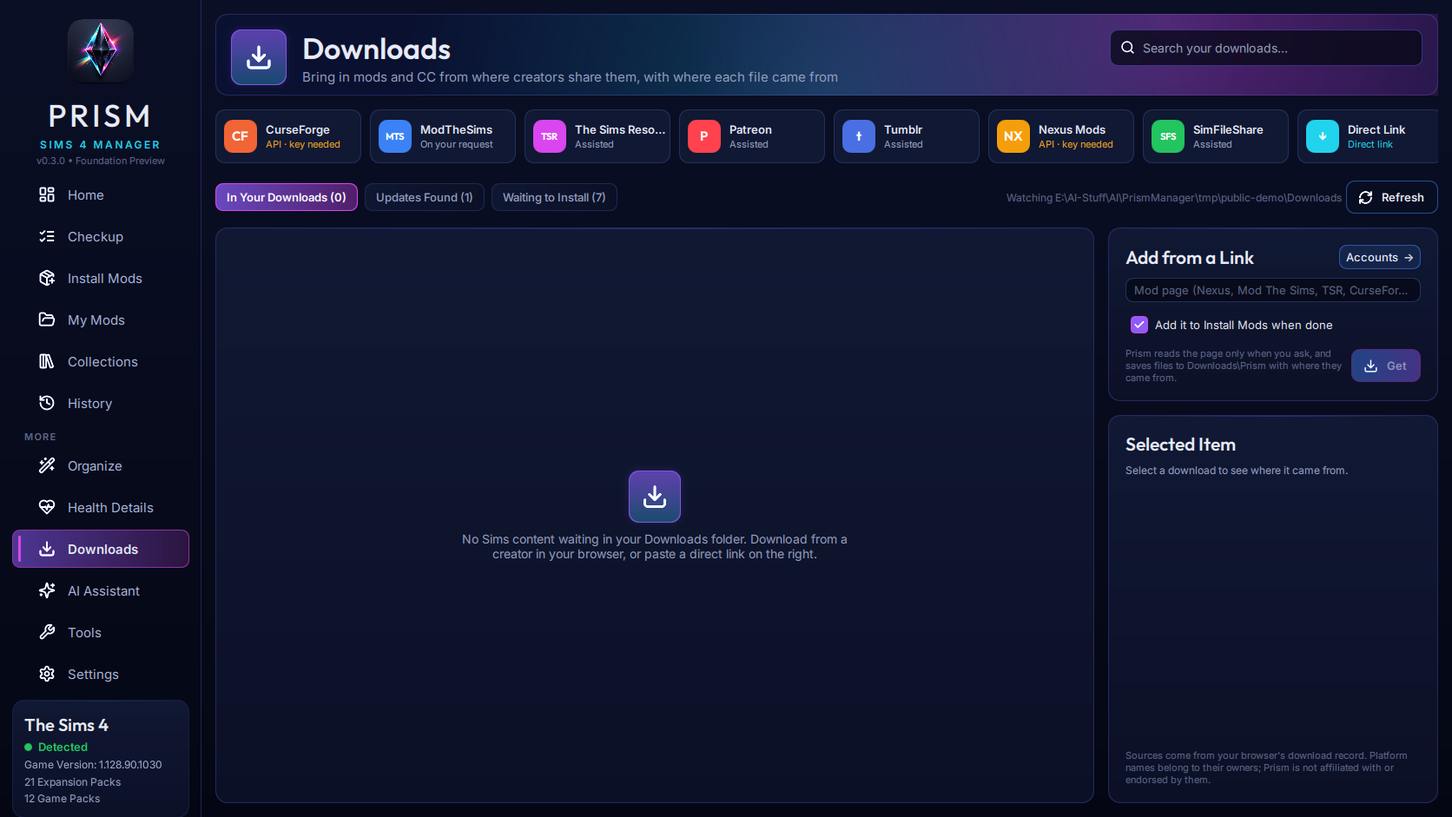
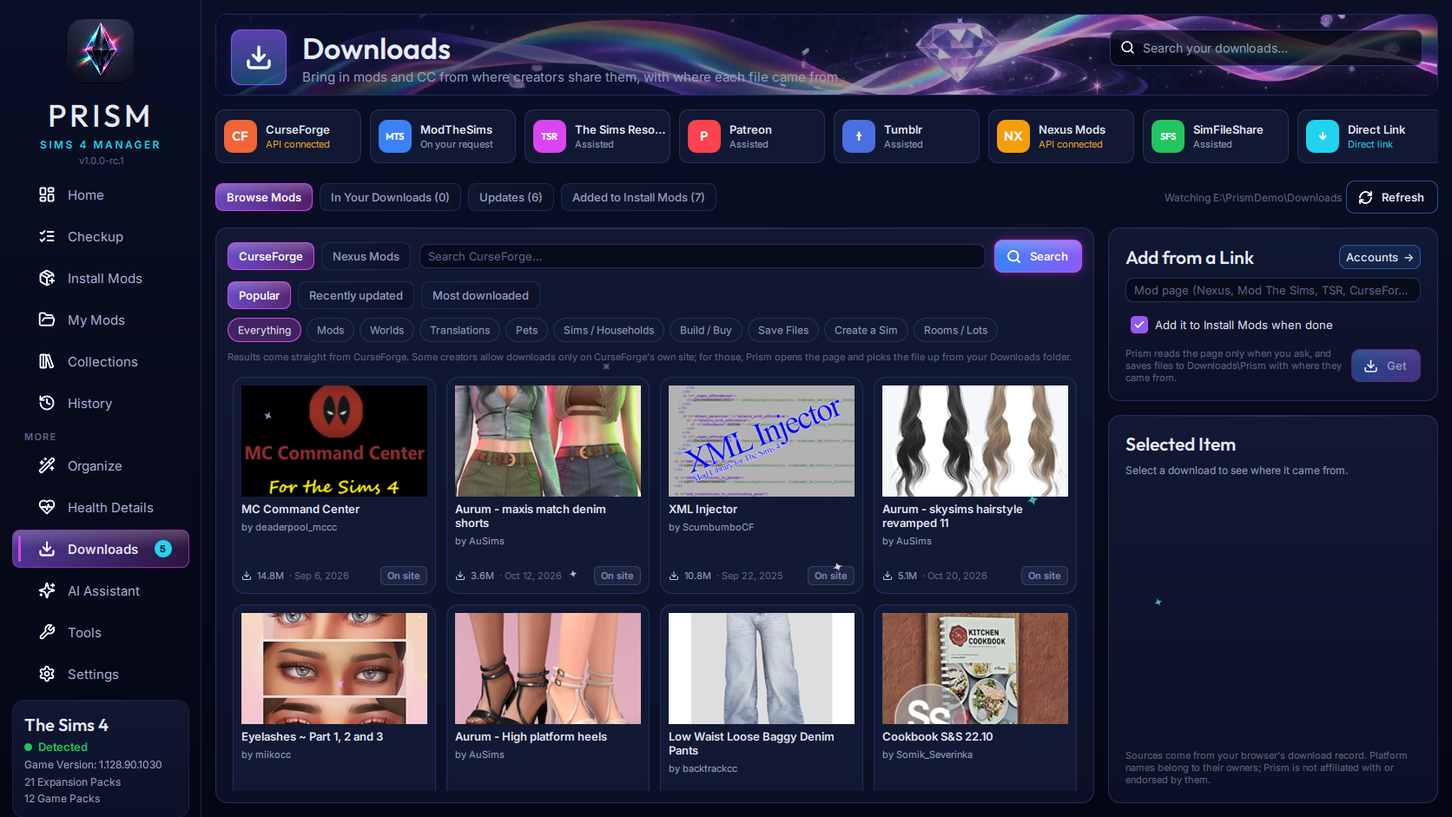
Docs: 1.0 release candidate - browse and update from CurseForge and Nexus Mods, malware checks, themes, agent approval; fresh screenshots
Screenshots retaken from a demo collection in a neutral folder (the old Downloads shot showed a local path).

diff --git a/docs/index.html b/docs/index.html
@@ -4,7 +4,7 @@
 <meta charset="utf-8">
 <meta name="viewport" content="width=device-width, initial-scale=1">
 <title>Prism · Sims 4 Manager</title>
-<meta name="description" content="Prism is a free, open-source mod and custom-content manager for The Sims 4: safe installs with undo, evidence from inside your packages, collections, loadouts and an optional read-only AI assistant.">
+<meta name="description" content="Prism is a free, open-source mod and custom-content manager for The Sims 4: browse and update mods from CurseForge and Nexus Mods, malware checks, safe installs with undo, whole-folder organizing, themes and an optional AI assistant.">
 <meta property="og:title" content="Prism · Sims 4 Manager">
 <meta property="og:description" content="A free, open-source Sims 4 mod manager: visual, careful, and honest about what it knows.">
 <meta property="og:image" content="https://archangelaries.github.io/Prism-Sims4-Manager/screenshots/dashboard.png">
@@ -149,7 +149,7 @@
       <a class="btn primary" href="#screens">See it in action</a>
       <a class="btn" href="https://github.com/ArchAngelAries/Prism-Sims4-Manager">Follow on GitHub</a>
     </div>
-    <div class="status"><i></i>In active development · source code arrives with the first public release</div>
+    <div class="status"><i></i>1.0 release candidate · Windows installer in testing · source code arrives with the first public release</div>
     <div class="shot-hero"><img src="screenshots/dashboard.png" alt="Prism dashboard: collection overview, health, recent activity and loadout"></div>
   </div>
 </header>
@@ -178,6 +178,10 @@
       <p>Tested every day on a real collection of more than 43,000 files.</p>
     </div>
     <div class="features">
+      <div class="feature"><div class="ico"><span style="--m:url(assets/icons/search.svg);--c:var(--cyan)"></span></div><h3>Browse &amp; download</h3><p>Search CurseForge and Nexus Mods inside Prism, pick a file, and it lands in Install Mods for review. When a creator allows downloads only on their page, Prism opens it and picks the file up for you.</p></div>
+      <div class="feature"><div class="ico"><span style="--m:url(assets/icons/refresh-cw.svg);--c:var(--green)"></span></div><h3>Updates in one place</h3><p>Prism recognises your CurseForge mods from the files themselves, even old installs, and lists every update: <b>In Prism</b> (one click) or <b>On site</b>, with the game version each new file lists.</p></div>
+      <div class="feature"><div class="ico"><span style="--m:url(assets/icons/shield-check.svg);--c:var(--green)"></span></div><h3>Malware checks</h3><p>Disguised files, hidden programs, scripts that reach for passwords, known-bad files and a Windows Defender scan, plus confirmation from CurseForge or Nexus. Prism never runs a file to check it.</p></div>
+      <div class="feature"><div class="ico"><span style="--m:url(assets/icons/palette.svg);--c:var(--magenta)"></span></div><h3>27 themes, and yours</h3><p>Crystal, Neon, Gothic Vampire, Anime Sky, Cottagecore, Cartoon, Pride flags and more, each with its own animated banner. Make your own, use your installed fonts, and share themes safely.</p></div>
       <div class="feature"><div class="ico"><span style="--m:url(assets/icons/list-checks.svg);--c:var(--green)"></span></div><h3>Checkup</h3><p>One screen, plain language: what's wrong with your collection, most important first, each with one fix button. Every fix can be undone.</p></div>
       <div class="feature"><div class="ico"><span style="--m:url(assets/icons/shield-check.svg);--c:var(--amber)"></span></div><h3>Set Aside</h3><p>Take problem files out of the game without deleting them, keep the reason, and put them back any time. Only you can delete, and deleted files go to the Recycle Bin.</p></div>
       <div class="feature"><div class="ico"><span style="--m:url(assets/icons/box.svg)"></span></div><h3>Evidence over filenames</h3><p>Prism reads what's inside each package (resource types, CAS body types, embedded previews, script versions), so a "hair" file that's really a hat is filed as a hat.</p></div>
@@ -215,13 +219,13 @@
     <div class="panel">
       <div class="ico"><span style="--m:url(assets/icons/download.svg)"></span></div>
       <h3>Know where every mod came from</h3>
-      <p>Prism records the site and page behind each download, carries it into the installed mod, and checks those sources for newer files where the site allows it. It follows each site's rules: no bypassing logins, captchas, paywalls or early access.</p>
+      <p>Prism records the site and page behind each download, recognises installed CurseForge mods from their files, and checks for newer versions. It follows each site's rules and each creator's download choices: no bypassing logins, captchas, paywalls or early access.</p>
       <div class="chips">
-        <span class="chip api">Nexus Mods · official API</span>
+        <span class="chip api">CurseForge · official API: browse, download, updates</span>
+        <span class="chip api">Nexus Mods · official API, "Mod Manager Download"</span>
         <span class="chip req">Mod The Sims · on request</span>
         <span class="chip ast">The Sims Resource · in your browser</span>
         <span class="chip ast">Patreon, Tumblr &amp; more · in your browser</span>
-        <span class="chip wait">CurseForge · awaiting API approval</span>
       </div>
     </div>
     <div class="panel">
@@ -230,7 +234,7 @@
       <p>AI is optional. The assistant answers questions about your real collection; agents and stronger models can draft Mod Doctor fixes.</p>
       <ul>
         <li>Local models (LM Studio, Ollama, llama.cpp, vLLM), your own cloud keys, or agents like Claude Code and Codex.</li>
-        <li>The assistant is read-only. Agents can change files only after you turn on reviewed agent changes and approve the exact plan.</li>
+        <li>The assistant is read-only. Agents can change files only after you allow it, and you choose who approves each change: ask me every time, approve for me (Prism's own AI checks routine changes), or always approve. Risky changes always ask you.</li>
         <li>Kept honest: answers come from your real collection, Prism's built-in guide and a final check, so even small local models don't invent features or claim to have changed files.</li>
         <li>Honest about limits: fixes from small local models are often wrong. Prism rejects what it can detect and recommends stronger models for code.</li>
       </ul>
@@ -243,29 +247,27 @@
     <div class="head">
       <div class="eyebrow">Development status</div>
       <h2>Where Prism is today</h2>
-      <p>Prism runs on Windows (Python with Qt Quick). The code will be published here, under the GPL, with the first public release.</p>
+      <p>Prism runs on Windows (Python with Qt Quick) and installs with a normal Windows installer. The code will be published here, under the GPL, with the first public release.</p>
     </div>
     <div class="road">
       <div class="col"><h3><i class="dot" style="background:var(--green)"></i>Working now</h3><ul>
+        <li>Browse, download and update from CurseForge and Nexus Mods</li>
+        <li>Malware checks on every download, without running anything</li>
         <li>Installs and updates with undo, straight into your layout</li>
         <li>Organize the whole Mods folder, tested on a real 43,000-file collection</li>
-        <li>Sim and lot downloads that keep your CC and sliders intact</li>
-        <li>Checkup with one-click fixes, and Set Aside for problem files</li>
-        <li>Mod Browser, Collections, Loadouts and pictures</li>
+        <li>Checkup, Set Aside and Find the Culprit</li>
         <li>Missing requirements, Mod Doctor and game update impact</li>
-        <li>Opt-in in-game probe: which script mods really loaded</li>
-        <li>Downloads with source tracking; Nexus Mods integration</li>
-        <li>AI assistant (local or cloud) and agent tools for every feature</li></ul></div>
+        <li>27 themes with animated banners, custom and shareable themes</li>
+        <li>AI assistant (local or cloud) and agents with approval you control</li>
+        <li>Windows installer (1.0 release candidate)</li></ul></div>
       <div class="col"><h3><i class="dot" style="background:var(--amber)"></i>In progress</h3><ul>
-        <li>Evidence-driven "find the culprit" troubleshooting</li>
-        <li>Main-menu probe and interface-override checks</li>
-        <li>More layout choices (simple, granular, keep mine)</li>
-        <li>CurseForge integration (pending approval)</li>
-        <li>Speed: faster first checks on huge collections</li></ul></div>
+        <li>In-game testing of the probe</li>
+        <li>Sign in with Nexus Mods (app registration)</li>
+        <li>More theme families and Theme Studio</li></ul></div>
       <div class="col"><h3><i class="dot" style="background:var(--violet)"></i>Next</h3><ul>
-        <li>Windows installer and first public release</li>
+        <li>First public release, with source code</li>
         <li>Previews for CC that ships without one</li>
-        <li>Animated, polished look</li></ul></div>
+        <li>More layout choices</li></ul></div>
     </div>
   </div>
 </section>
@@ -292,15 +294,19 @@
 <script>
   const shots = [
     ['dashboard', 'Home', 'Your collection at a glance, what needs attention, and a Play button.'],
+    ['downloads', 'Browse Mods', 'Search CurseForge and Nexus Mods inside Prism; downloads go to Install Mods for review.'],
+    ['updates', 'Updates', 'Every update in one place: in Prism or on the site, with the game version each file lists.'],
+    ['themes', 'Themes', '27 built-in looks, your own themes, installed fonts, and safe theme sharing.'],
+    ['theme-gothic-vampire', 'Gothic Vampire', 'One of the themes, with its own banner and finishes.'],
+    ['theme-cottagecore', 'Cottagecore', 'A light theme with its own art.'],
     ['staging', 'Install Mods', 'Review releases, versions and replacements before anything moves.'],
     ['browser', 'My Mods', 'Real thumbnails from inside your packages, with categories and folders.'],
     ['collections', 'Collections', 'Group content into collections and switch gameplay loadouts safely.'],
     ['sort', 'Organize', 'Your whole Mods folder in one clean layout, previewed first and undoable.'],
     ['health', 'Health Details', 'Evidence from inside your packages, not guesses from filenames.'],
     ['history', 'Move History', 'Every change Prism made, with verified undo and crash recovery.'],
-    ['downloads', 'Downloads', 'Bring in mods from where creators share them, with where each file came from.'],
     ['assistant', 'AI Assistant', 'Read-only help that looks at your real collection before answering.'],
-    ['tools', 'Tools & Utilities', 'Inspectors, maintenance and the external apps you already use.'],
+    ['tools', 'Tools & Utilities', 'Error logs, Mod Doctor, duplicates, backups and maintenance.'],
     ['checkup', 'Checkup', 'What\'s wrong with your collection, in plain language, with one-click fixes.'],
     ['set-aside', 'Set Aside', 'Problem files out of the game, kept with the reason, ready to put back.'],
     ['mod-doctor', 'Mod Doctor', 'A broken script mod, explained in plain language, with a fix you approve once and can undo.'],

diff --git a/README.md b/README.md
@@ -12,63 +12,62 @@
 
 </div>
 
-> **Status: in active development.** This repository currently holds documentation, screenshots and licensing only. The source code will be published here when the first public release is ready.
+> **Status: 1.0 release candidate.** Prism now has a Windows installer and is being tested before its first public release. This repository holds documentation, screenshots and licensing; the source code will be published here with that release.
 
 ## What Prism does
 
-Prism helps you install, browse, organize and troubleshoot large Sims 4 collections (tested on 43,000+ files) without guessing and without risking your Mods folder.
+Prism helps you find, install, update, organize and troubleshoot large Sims 4 collections (tested on 43,000+ files) without guessing and without risking your Mods folder.
 
+- **Browse and download inside Prism.** Search CurseForge (by section: Mods, Create a Sim, Build/Buy and more) and Nexus Mods without leaving the app. Pick a mod, pick a file, and Prism downloads it and adds it to Install Mods for review. Files whose creator allows downloads only on their own page open that page instead, and Prism picks the file up from your Downloads folder.
+- **Updates in one place.** Prism recognises which of your installed mods come from CurseForge, even ones you installed long before Prism, from the files themselves (only fingerprint numbers are sent, never your files or their names). It shows every update with what you have and what's new, which game version the new file is listed for, and how to get it: **In Prism** (one click, or Update All) or **On site** (the creator's page opens). Mods you downloaded from Nexus Mods or Mod The Sims are checked too, when you ask. The sidebar shows how many updates are waiting.
+- **Nexus Mods "Mod Manager Download".** Optionally, Nexus's download buttons can send their files straight to Prism, also for free accounts. Prism shows which program handles those links now and gives them back when you turn this off or uninstall.
+- **Malware protection without running anything.** Every download is checked before it can be installed: files pretending to be something else, programs hidden inside mods, script mods that reach for passwords or browsers, known-bad files, downloads from risky hosts, and a Windows Defender scan of each new batch. Downloads that say they came from CurseForge or Nexus Mods are confirmed with that site. Prism never runs a file to check it, and it is honest that no check can prove a mod is safe.
 - **Checkup.** One screen that tells you what's wrong with your collection in plain language, most important first, each with one fix button. It covers broken files, files too deep in folders for the game to load, script mods that stopped working, missing requirements, CAS items that will be invisible, duplicates, and fixes to confirm after playing. Every fix can be undone.
 - **Set Aside.** Take problem files out of the game without deleting them. Prism keeps the reason, and you can put them back any time. Deleting is your choice alone: files go to the Windows Recycle Bin, and the assistant and agents can never delete anything.
-- **Sim and lot downloads.** Bundled CC and sliders you already have are skipped, even under another file name (Prism matches the item IDs inside). If a bundled slider would replace one of yours, Prism asks: all of them, the ones you tick, or none. Renamed tray copies the game would ignore are left out, and incomplete households or lots are flagged.
-- **Big mods installed right.** Mods with their own layout, like Create-A-World and Better BuildBuy, are installed exactly as their creators require (the whole folder, every file type), and Prism warns about conflicts their creators name.
 - **Safe installs and updates.** Downloads are staged and analyzed first. You review exactly which files move and which versions are replaced, then Prism installs them as one transaction that you can undo, and that recovers safely after a crash or power loss. Prism never overwrites a file.
+- **Sim and lot downloads.** Bundled CC and sliders you already have are skipped, even under another file name (Prism matches the item IDs inside). If a bundled slider would replace one of yours, Prism asks: all of them, the ones you tick, or none. Renamed tray copies the game would ignore are left out, and incomplete households or lots are flagged.
+- **Big mods installed right.** Mods with their own layout, like Create-A-World and Better BuildBuy, are installed exactly as their creators require, and Prism warns about conflicts their creators name.
 - **Evidence over filenames.** Prism reads what is inside each package (resource types, CAS body types, embedded thumbnails and script versions) instead of trusting names. Shared resources are reported as candidates to review, never presumed conflicts.
+- **Organize everything.** Your whole Mods folder in one clean layout (CAS, Build/Buy, Gameplay, Overrides, Animations & Poses), planned in seconds even for 43,000 files and applied as one undoable step. Overrides are found by what a package replaces, not by its name. Mods stay whole, scripts stay where the game loads them, and your settings folders and deliberate choices stay put. New installs land in the layout you chose; a new player's folders are left as they made them.
+- **Build/Buy by catalog.** Build/Buy subfolders (seating, lighting, plumbing, decor...) come from each object's own catalog tags, the same categories the game uses.
+- **My Mods, Collections and loadouts.** A fast visual gallery of everything installed, with embedded previews and per-file details. Group related content, then switch gameplay loadouts in one undoable step. Nothing is deleted when you switch.
+- **Missing requirements, found and fetched.** Script frameworks your mods import (read from compiled code without running it), mods and packs their creators declare as required, and CAS items whose mesh is missing. Each comes with its official source, and Prism gets it for you where the site allows.
+- **Game update impact and Mod Doctor.** After a game update, Prism lists the script mods whose code uses game functions that changed, before you launch. When one breaks, Mod Doctor explains why and gets a small, separate, safety-checked fix written, which you install with one approval and can undo any time. The original mod is never changed.
+- **Find the Culprit.** When something is broken and nobody knows which mod, Prism narrows it down step by step, turning groups of mods off and back on, with every step undoable.
+- **Themes.** 27 built-in themes, from Prism's own crystal look to Neon, Gothic Vampire, Anime Sky, Cottagecore, Storybook, Rose Gold, Cartoon and Pride flags, each with its own animated banner, effects and finishes. Save your own theme, change its colors, corners, glow and effects, use fonts installed on your PC, and share themes as files. Imported themes are checked like downloads: pictures and settings only, nothing that could run.
 - **Pictures.** Give a mod or a collection your own picture, the one from its download page, or an AI-generated one (ComfyUI on your PC, OpenAI or Gemini). Generated pictures are always labelled.
-- **My Mods.** A fast visual gallery of everything installed, with embedded previews, categories, folders, suggested sets, and per-file details.
-- **Collections and loadouts.** Group related content, then switch gameplay loadouts in one undoable step. Nothing is deleted when you switch.
-- **Organize everything.** Your whole Mods folder in one clean layout (CAS, Build/Buy, Gameplay, Overrides, Animations & Poses), planned in seconds even for 43,000 files and applied as one undoable step. Overrides are found by what a package replaces, not by its name. Mods stay whole, scripts stay where the game loads them, and your settings folders and deliberate choices stay put. Old folders, empty ones included, are removed, and new installs land in the same layout.
-- **Collection Health and game error logs.** Find files the game will not load, contested resources, and the installed mods that appear in exception tracebacks.
-- **Missing requirements, found and fetched.** Prism finds what your mods need but don't have:
-  - script frameworks they import, read from compiled code without running it;
-  - mods and packs their creators declare as required;
-  - CAS items whose mesh is missing.
-
-  For each one it names the official source. It downloads through official APIs where a site allows it; otherwise it opens the creator's page and watches your Downloads folder. It checks that the file really provides what was missing, then installs it through the same reviewed, undoable flow.
-- **Game update impact.** Prism records the game's own functions for each game version. After an update, it lists the script mods whose code uses functions that changed or disappeared, before you launch. This is a prediction, not a verdict, and it starts working from the first game update after Prism is installed.
-- **Mod Doctor.** When a game update breaks a script mod, Prism reads the game's error reports and the mod's compiled code (without running it). An AI model or agent writes a small, separate compatibility fix. Prism checks it before you see it: no file, network or process access, no hiding errors, no invented code. One approval installs it into `Mods/Prism Patches`. The original mod is never changed, you can undo the fix any time, and an official update from the creator is still the best fix.
-- **Downloads and sources.** Prism records where each download came from and checks those sources for newer files where the site allows it. It uses Nexus Mods through its official API with your own key, reads public Mod The Sims pages only when you ask, and works with your browser for everything else. CurseForge support is waiting on API approval. Prism never bypasses logins, captchas, paywalls or site rules.
-- **Exact Duplicate Finder.** Byte-identical copies, confirmed with SHA-256. Extra copies go to a vault, never to the recycle bin.
-- **Build/Buy by catalog.** Build/Buy subfolders (seating, lighting, plumbing, decor...) come from each object's own Buy/Build catalog tags, the same categories the game uses. On a 43,000-file test collection, the number of Build/Buy files Prism could place confidently went from about 6,700 to 17,800.
-- **AI Assistant (optional).** Works with local models (LM Studio, Ollama, llama.cpp, vLLM and more) or your own cloud keys (Anthropic, OpenAI, Gemini). It only reads your collection and suggests the right screen for any change. Its answers come from your real collection, Prism's built-in guide and a final check, so even small local models stay accurate about what Prism can do. It cannot install, move or delete anything, and every change stays yours to approve. Settings recommends local models that fit your PC, with results Prism measured on real hardware.
-- **Agents (optional).** Claude Code, Codex and other MCP clients can use every Prism feature through its tools: the Checkup, installs, Organize, Mod Doctor and more. They can only change files after you turn on reviewed agent changes and approve the exact plan. Fixes written by small local models are often wrong: Prism rejects what it can detect and recommends stronger models for code.
+- **AI Assistant (optional).** Works with local models (LM Studio, Ollama, llama.cpp, vLLM and more) or your own cloud keys (Anthropic, OpenAI, Gemini). It only reads your collection and suggests the right screen for any change. Its answers come from your real collection, Prism's built-in guide and a final check, so even small local models stay accurate. Requests to change Prism itself are pointed to this repository's Issues.
+- **Agents (optional).** Claude Code, Codex and other MCP clients can use Prism's features through its tools. Changes are off until you allow them, and you choose who approves each one: **Ask me every time**, **Approve for me** (Prism's own AI approves routine, undoable changes and asks you about anything else) or **Always approve**. Code that would run in the game, whole-folder moves and downloads with safety findings always ask you.
+- **Private by design.** API keys are encrypted for your Windows account and never shown in full. Prism opens programs it finds on your PC only after showing you exactly which file it is. Every build is checked so that no personal data or keys can ship inside it.
 
 ## Screenshots
 
 | | |
 |---|---|
-| ![Organize](docs/screenshots/sort.png) **Organize**: your whole Mods folder in one clean layout, previewed first | ![Install Mods](docs/screenshots/staging.png) **Install Mods**: review releases, versions and replacements before anything moves |
+| ![Browse](docs/screenshots/downloads.png) **Browse Mods**: search CurseForge and Nexus Mods inside Prism | ![Updates](docs/screenshots/updates.png) **Updates**: in Prism or on the site, with the game version each file lists |
+| ![Install Mods](docs/screenshots/staging.png) **Install Mods**: review releases, versions and replacements before anything moves | ![Organize](docs/screenshots/sort.png) **Organize**: your whole Mods folder in one clean layout, previewed first |
 | ![My Mods](docs/screenshots/browser.png) **My Mods**: embedded previews and content categories | ![Home](docs/screenshots/dashboard.png) **Home**: what needs attention, and a Play button |
-| ![Collections](docs/screenshots/collections.png) **Collections & Loadouts**: group content, switch sets safely | ![Collection Health](docs/screenshots/health.png) **Collection Health**: evidence from inside your packages |
-| ![Move History](docs/screenshots/history.png) **Move History**: every change recorded, undoable and recoverable | ![Downloads](docs/screenshots/downloads.png) **Downloads**: sources and where each file came from |
-| ![AI Assistant](docs/screenshots/assistant.png) **AI Assistant**: read-only help with real tools | ![Tools](docs/screenshots/tools.png) **Tools & Utilities**: inspectors, maintenance and external apps |
-| ![Mod Doctor](docs/screenshots/mod-doctor.png) **Mod Doctor**: a broken script mod, explained in plain language with one-click options | ![Requirements](docs/screenshots/requirements.png) **Missing requirements**: what your mods need and where to get it |
 | ![Checkup](docs/screenshots/checkup.png) **Checkup**: what's wrong, in plain language, with one-click fixes | ![Set Aside](docs/screenshots/set-aside.png) **Set Aside**: problem files out of the game, kept with the reason, undoable |
-| ![Local models](docs/screenshots/models.png) **AI & Models**: tested local models that fit your PC | |
+| ![Collections](docs/screenshots/collections.png) **Collections & Loadouts**: group content, switch sets safely | ![Requirements](docs/screenshots/requirements.png) **Missing requirements**: what your mods need and where to get it |
+| ![Mod Doctor](docs/screenshots/mod-doctor.png) **Mod Doctor**: a broken script mod, explained, with options you approve | ![Collection Health](docs/screenshots/health.png) **Collection Health**: evidence from inside your packages |
+| ![Themes](docs/screenshots/themes.png) **Themes**: 27 built-in looks, your own themes, import and export | ![Gothic Vampire theme](docs/screenshots/theme-gothic-vampire.png) **Gothic Vampire**: one of the themes, with its own banner |
+| ![Cottagecore theme](docs/screenshots/theme-cottagecore.png) **Cottagecore**: a light theme with its own art | ![History](docs/screenshots/history.png) **History**: every change recorded, undoable and recoverable |
+| ![AI Assistant](docs/screenshots/assistant.png) **AI Assistant**: read-only help with real tools | ![Local models](docs/screenshots/models.png) **AI & Models**: tested local models that fit your PC |
+| ![Tools](docs/screenshots/tools.png) **Tools & Utilities**: error logs, Mod Doctor, duplicates, backups | |
 
-Screenshots show a small demo collection. Custom content shown belongs to its creators. The broken "DemoCreator" mods in the Mod Doctor and Requirements screenshots are made-up examples.
+Screenshots show a small demo collection. Custom content shown belongs to its creators. The broken "DemoCreator" mods are made-up examples.
 
 ## Principles
 
 1. **Your collection comes first.** Changes are previewed, approved, recorded and reversible. The game must be closed before files move.
-2. **No guessing presented as fact.** Prism labels uncertainty: suggested sets are suggestions, shared resources are candidates, and generated images are marked as generated.
-3. **Respect for creators and platforms.** Prism keeps attribution and download pages, follows each site's terms, and never strips paywalls or early-access restrictions.
+2. **No guessing presented as fact.** Prism labels uncertainty: suggested sets are suggestions, shared resources are candidates, safety checks say what they can't promise, and generated images are marked as generated.
+3. **Respect for creators and platforms.** Prism keeps attribution and download pages, follows each site's terms and each creator's download choices, and never strips paywalls or early-access restrictions.
 4. **AI is optional and never acts alone.** Anything an assistant or agent proposes goes through the same preview, approval and undo as everything else.
 5. **Free forever.** No paid tiers. Donations may be accepted in the future.
 
 ## Status
 
-Prism runs on Windows with Python and Qt (PySide6 / Qt Quick) and is used daily on a real 43,000-file collection. Working now: installs and updates into a clean layout, whole-folder Organize, Sim and lot downloads that keep your CC and sliders intact, the Checkup, Set Aside, Mod Doctor, missing requirements, game update impact, the in-game probe, pictures, and AI for local models, cloud models and agents. In progress before the first public release: evidence-driven "find the culprit" troubleshooting, a main-menu probe and interface-override checks, more layout choices, CurseForge (pending approval), and a Windows installer.
+Prism runs on Windows with Python and Qt (PySide6 / Qt Quick), installs with a normal Windows installer, and is used daily on a real 43,000-file collection. Working now: browsing, downloading and updating from CurseForge and Nexus Mods, malware checks, installs and updates into a clean layout, whole-folder Organize, the Checkup, Set Aside, Find the Culprit, Mod Doctor, missing requirements, game update impact, the in-game probe, 27 themes with custom and shareable themes, pictures, and AI for local models, cloud models and agents. Before the first public release: in-game testing of the probe, Nexus Mods app registration (sign in with Nexus), and more theme families.
 
 ## License
 
@@ -78,4 +77,4 @@ Prism is a fan-made tool. It is not affiliated with, endorsed by, or sponsored b
 
 ## Contact
 
-Questions, ideas and feedback are welcome through [GitHub Issues](https://github.com/ArchAngelAries/Prism-Sims4-Manager/issues).
+Questions, ideas, bug reports and feature requests are welcome through [GitHub Issues](https://github.com/ArchAngelAries/Prism-Sims4-Manager/issues).
